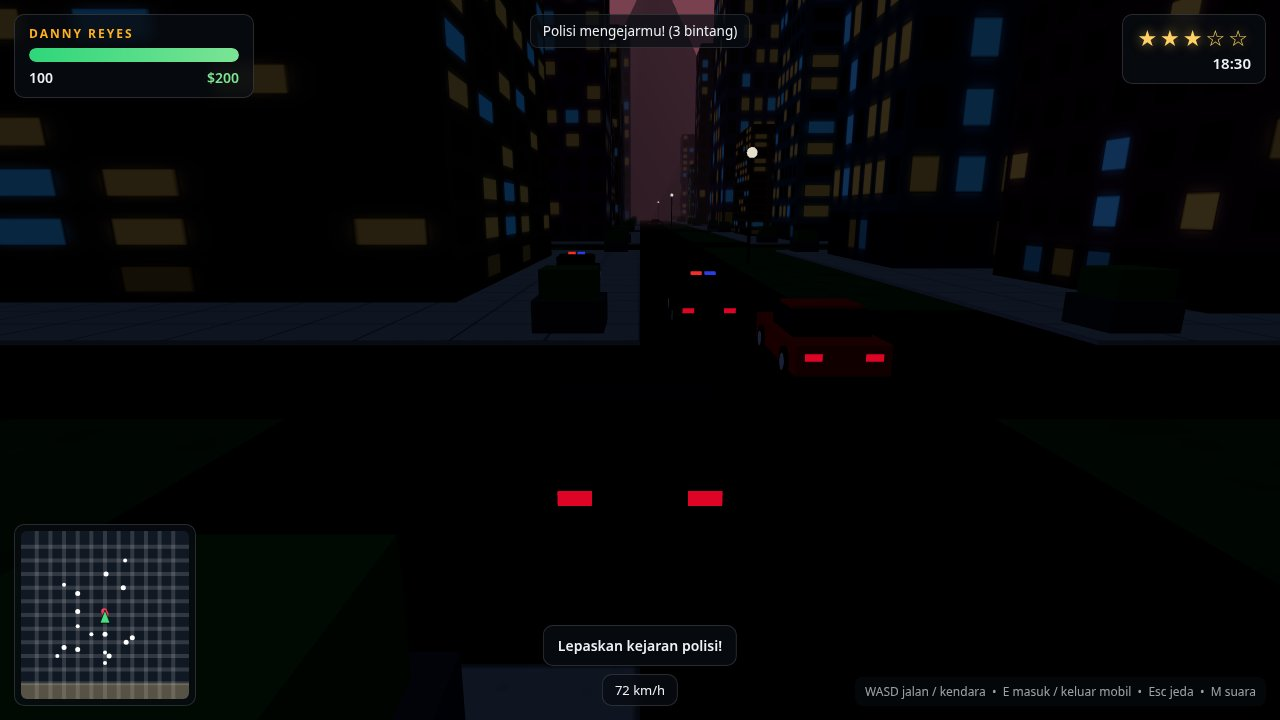
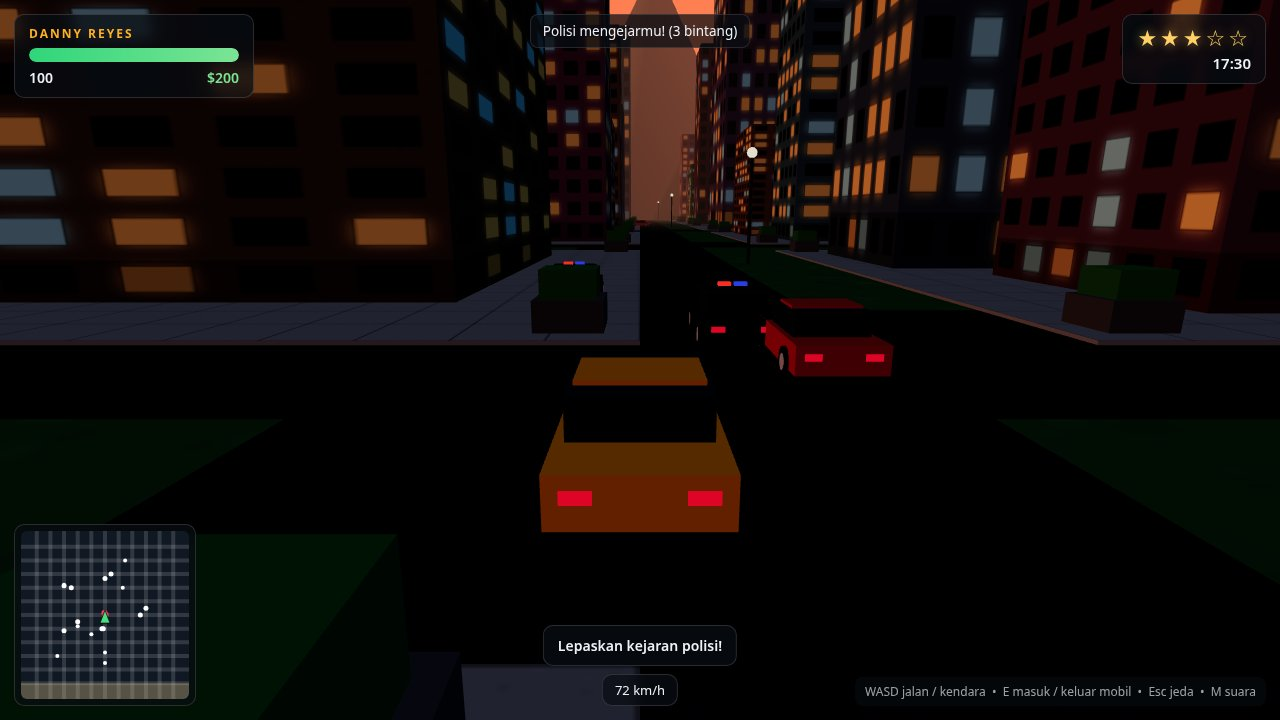
Chase shot: brighter dusk (17:30), orange player car, police cars closer so light bar reads

diff --git a/game/src/shots.js b/game/src/shots.js
@@ -42,17 +42,19 @@ export function stageShot(name, game) {
     g.showScreen('playing');
     g.flashMessage('Solmara siang hari — lalu lintas ramai.');
   } else if (name === 'chase') {
-    // Police chase at dusk: 3 stars, two patrol cars closing in from behind.
-    g.setTimeOfDay(18.5);
-    const car = g.spawnCar({ type: 'sports', x: sx, z: sz, heading, color: '#222831' });
+    // Police chase at dusk: 3 stars, two patrol cars closing in ahead.
+    // 17:30 keeps the dusk sky but leaves enough light that the cars read;
+    // the player car is bright orange so it is not lost against the road.
+    g.setTimeOfDay(17.5);
+    const car = g.spawnCar({ type: 'sports', x: sx, z: sz, heading, color: '#f39c12' });
     if (car) {
       car.speed = 20;
       g.placePlayerInCar(car);
     } else {
       g.placePlayer(sx, sz, heading);
     }
-    g.spawnPoliceCar(sx + 2, sz - 12, heading);
-    g.spawnPoliceCar(sx - 3, sz - 22, heading);
+    g.spawnPoliceCar(sx + 2.5, sz - 9, heading);
+    g.spawnPoliceCar(sx - 2.5, sz - 16, heading);
     g.setWanted(3);
     g.setObjective('Lepaskan kejaran polisi!');
     g.showScreen('playing');
